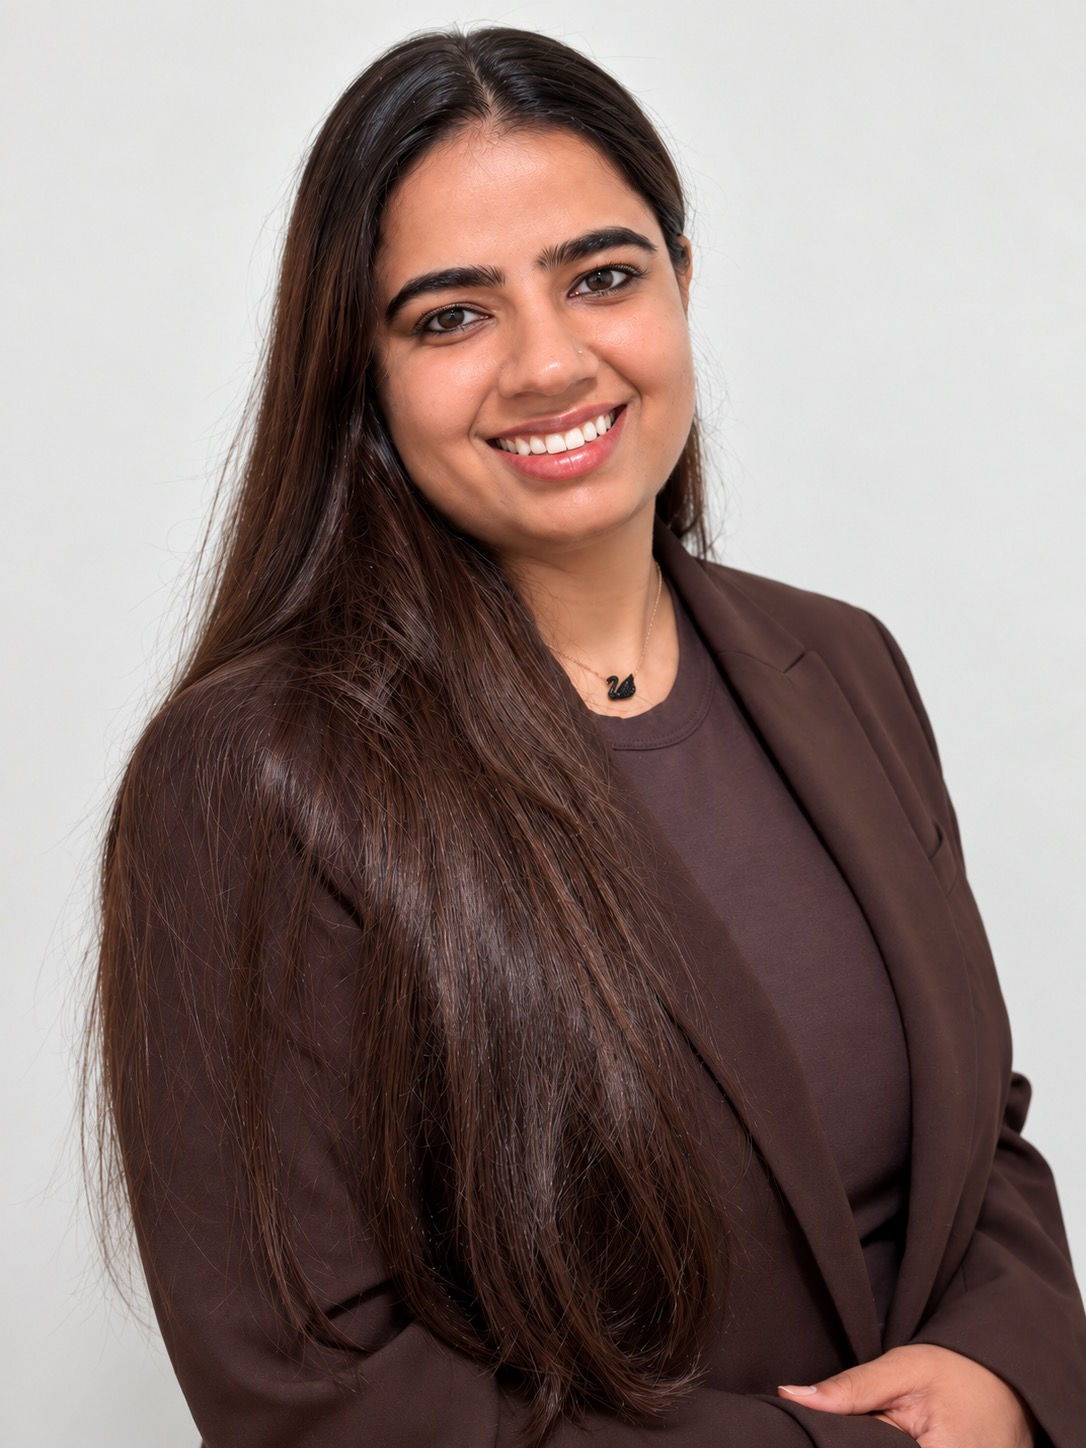
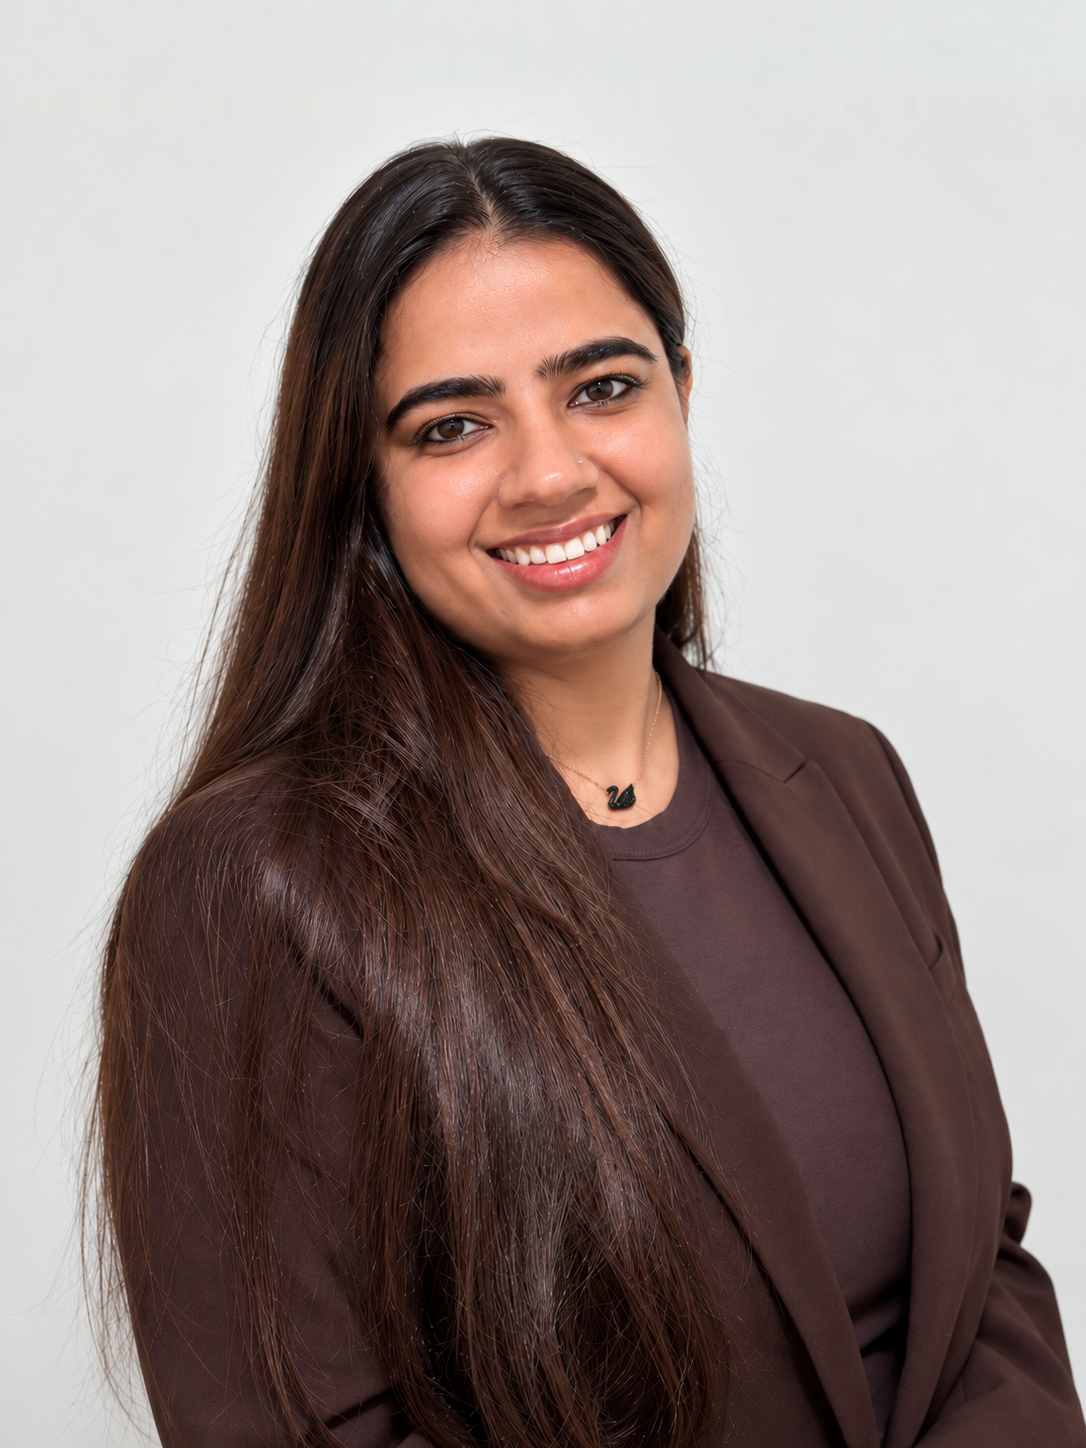
Update headshot, enlarge sidebar, add GoatCounter analytics
Swap in new headshot photo and widen the sidebar from 250px to 320px so
the photo displays larger, with the page width bumped to keep the reading
column the same. Add the GoatCounter tracking snippet for site analytics.

diff --git a/index.html b/index.html
@@ -4,7 +4,8 @@
   <meta charset="UTF-8" />
   <meta name="viewport" content="width=device-width, initial-scale=1.0" />
   <title>Ritika Verma</title>
-  <link rel="stylesheet" href="style.css?v=28" />
+  <link rel="stylesheet" href="style.css?v=29" />
+  <script data-goatcounter="https://ritikaverma.goatcounter.com/count" async src="//gc.zgo.at/count.js"></script>
 </head>
 <body>
 
@@ -24,7 +25,7 @@
 
     <!-- Sidebar -->
     <aside class="sidebar">
-      <img src="photo.jpg?v=4" alt="Ritika Verma" />
+      <img src="photo.jpg?v=5" alt="Ritika Verma" />
       <h1>Ritika Verma</h1>
       <p class="position">PhD Candidate in Economics</p>
       <p class="institution">New York University</p>

diff --git a/style.css b/style.css
@@ -14,7 +14,7 @@ body {
   line-height: 1.65;
   color: #1a1a1a;
   background: #fff;
-  max-width: 1000px;
+  max-width: 1070px;
   margin: 0 auto;
   padding: 78px 48px 80px;
 }
@@ -33,7 +33,7 @@ body {
 }
 
 .site-nav-inner {
-  max-width: 1000px;
+  max-width: 1070px;
   margin: 0 auto;
   padding: 16px 48px;
   display: flex;
@@ -78,7 +78,7 @@ body {
 
 /* Sidebar */
 .sidebar {
-  width: 250px;
+  width: 320px;
   flex-shrink: 0;
   position: sticky;
   top: 78px;
